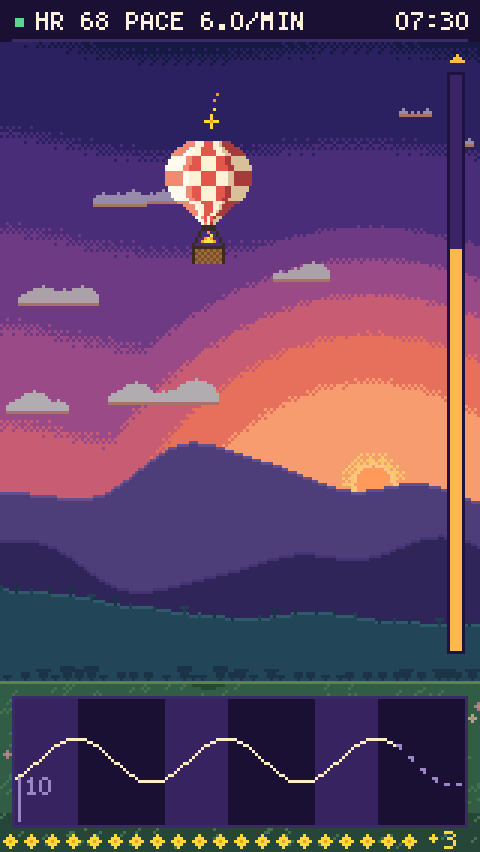
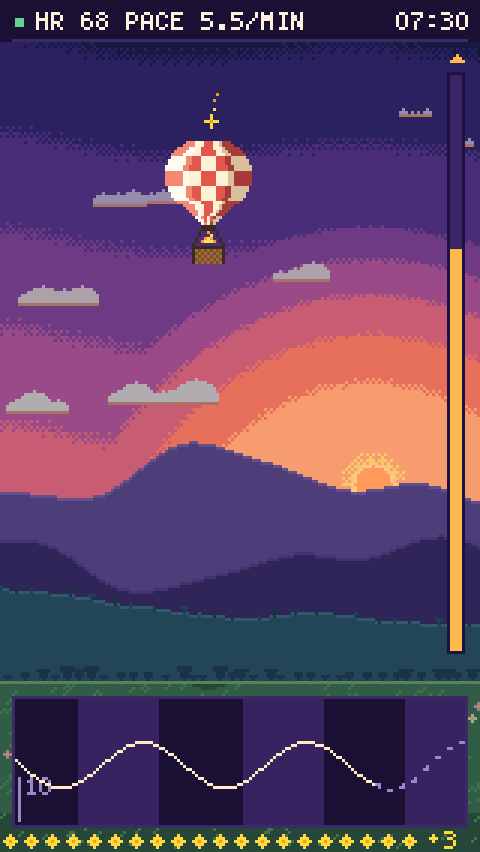
docs: screenshots at the 5.5/min, 50:50 defaults; README says where UI texts live

Changed region(s): [[0.0312, 0.7934, 0.9688, 0.9765], [0.4688, 0.0, 0.5, 0.0305]]

diff --git a/app/src/test/kotlin/com/hrvballoon/ui/ScreenshotDump.kt b/app/src/test/kotlin/com/hrvballoon/ui/ScreenshotDump.kt
@@ -17,7 +17,7 @@ class ScreenshotDump {
             out.write("P6\n$W $H\n255\n".toByteArray())
             for (p in px) out.write(byteArrayOf((p shr 16).toByte(), (p shr 8).toByte(), p.toByte()))
         }
-        val period = 10_000.0   // 6.0 breaths/min
+        val period = 60_000 / 5.5   // the default 5.5 breaths/min, inhale 50:50
         // Confirmed beats stop ~3 s before now (filter and notification lag), as on a phone; the real filter forecasts the rest.
         fun trace(nowMs: Long, mean: Double, swing: Double): Triple<DoubleArray, DoubleArray, (Double) -> Double> {
             val t = DoubleArray(34) { nowMs - 32_600.0 + it * 900 }
@@ -34,8 +34,8 @@ class ScreenshotDump {
             scene.render(
                 SceneState(
                     0.82, true, 0.7, true, true, false, 12_345, stars = 24, falling = listOf(11_900),
-                    traceT = t1, traceHr = hr1, traceNowMs = 450_000, pacerPeriodMs = period, progress = 0.5, forecast = f1,
-                    hud = Hud.session(TestText.scene, PixelScene.DOT_GREEN, "", 68, 6.0, "07:30"),
+                    traceT = t1, traceHr = hr1, traceNowMs = 450_000, pacerPeriodMs = period, inhaleFraction = 0.5, progress = 0.5, forecast = f1,
+                    hud = Hud.session(TestText.scene, PixelScene.DOT_GREEN, "", 68, 5.5, "07:30"),
                 ),
             ),
         )
@@ -45,8 +45,8 @@ class ScreenshotDump {
             scene.render(
                 SceneState(
                     0.38, false, 0.25, false, true, false, 98_765, stars = 31,
-                    traceT = t2, traceHr = hr2, traceNowMs = 828_000, pacerPeriodMs = period, progress = 0.92, forecast = f2,
-                    hud = Hud.session(TestText.scene, PixelScene.DOT_GREEN, "", 63, 6.0, "01:12"),
+                    traceT = t2, traceHr = hr2, traceNowMs = 828_000, pacerPeriodMs = period, inhaleFraction = 0.5, progress = 0.92, forecast = f2,
+                    hud = Hud.session(TestText.scene, PixelScene.DOT_GREEN, "", 63, 5.5, "01:12"),
                 ),
             ),
         )
@@ -54,7 +54,7 @@ class ScreenshotDump {
         val at = Instant.parse("2026-10-31T07:30:00Z").toEpochMilli()
         val records = rankSessions(
             listOf(31 to 13.4, 24 to 12.1, 36 to 14.0, 18 to 10.2, 27 to 12.6, 22 to 11.3).mapIndexed { i, (stars, p) ->
-                SessionRecord(at - i * day, 900_000, 6.0, p, 0.84 - i * 0.01, stars, 64.0 + i, 0.6 + i * 0.2, 880_000, 46.0 + i, 58.0 + i, 965 + i * 7)
+                SessionRecord(at - i * day, 900_000, 5.5, p, 0.84 - i * 0.01, stars, 64.0 + i, 0.6 + i * 0.2, 880_000, 46.0 + i, 58.0 + i, 965 + i * 7)
             },
         )
         val ranks = RankScene(W, H, TestText.scene)

diff --git a/README.md b/README.md
@@ -117,6 +117,7 @@ Layout:
 - `core/` (Gradle module `:core`, plain Kotlin on the JVM) signal path and session logic: packet parsing, beat timeline, artifact filter, amplitude estimator, pacer, resonance search, session engine and outcome, trace forecast, summary, CSV. It cannot use Android APIs, and its tests run without Android.
 - `app/src/main/kotlin/com/hrvballoon/ble` Heart Rate Service client.
 - `app/src/main/kotlin/com/hrvballoon/ui` pixel scene, HUD font, balloon view, ranks.
+- `app/src/main/res/values/strings.xml` every text the app shows; a translation goes in `values-xx/strings.xml` with the same names. Strings named `scene_*` and `hud_*` are drawn in the pixel font, which has only A–Z, digits, space and `# . - % : > / + * ^`; a unit test rejects any other character.
 - `scripts/make_icon.py` generates the adaptive launcher icon from a pixel map.
 
 The README frames are rendered by the scene itself:
